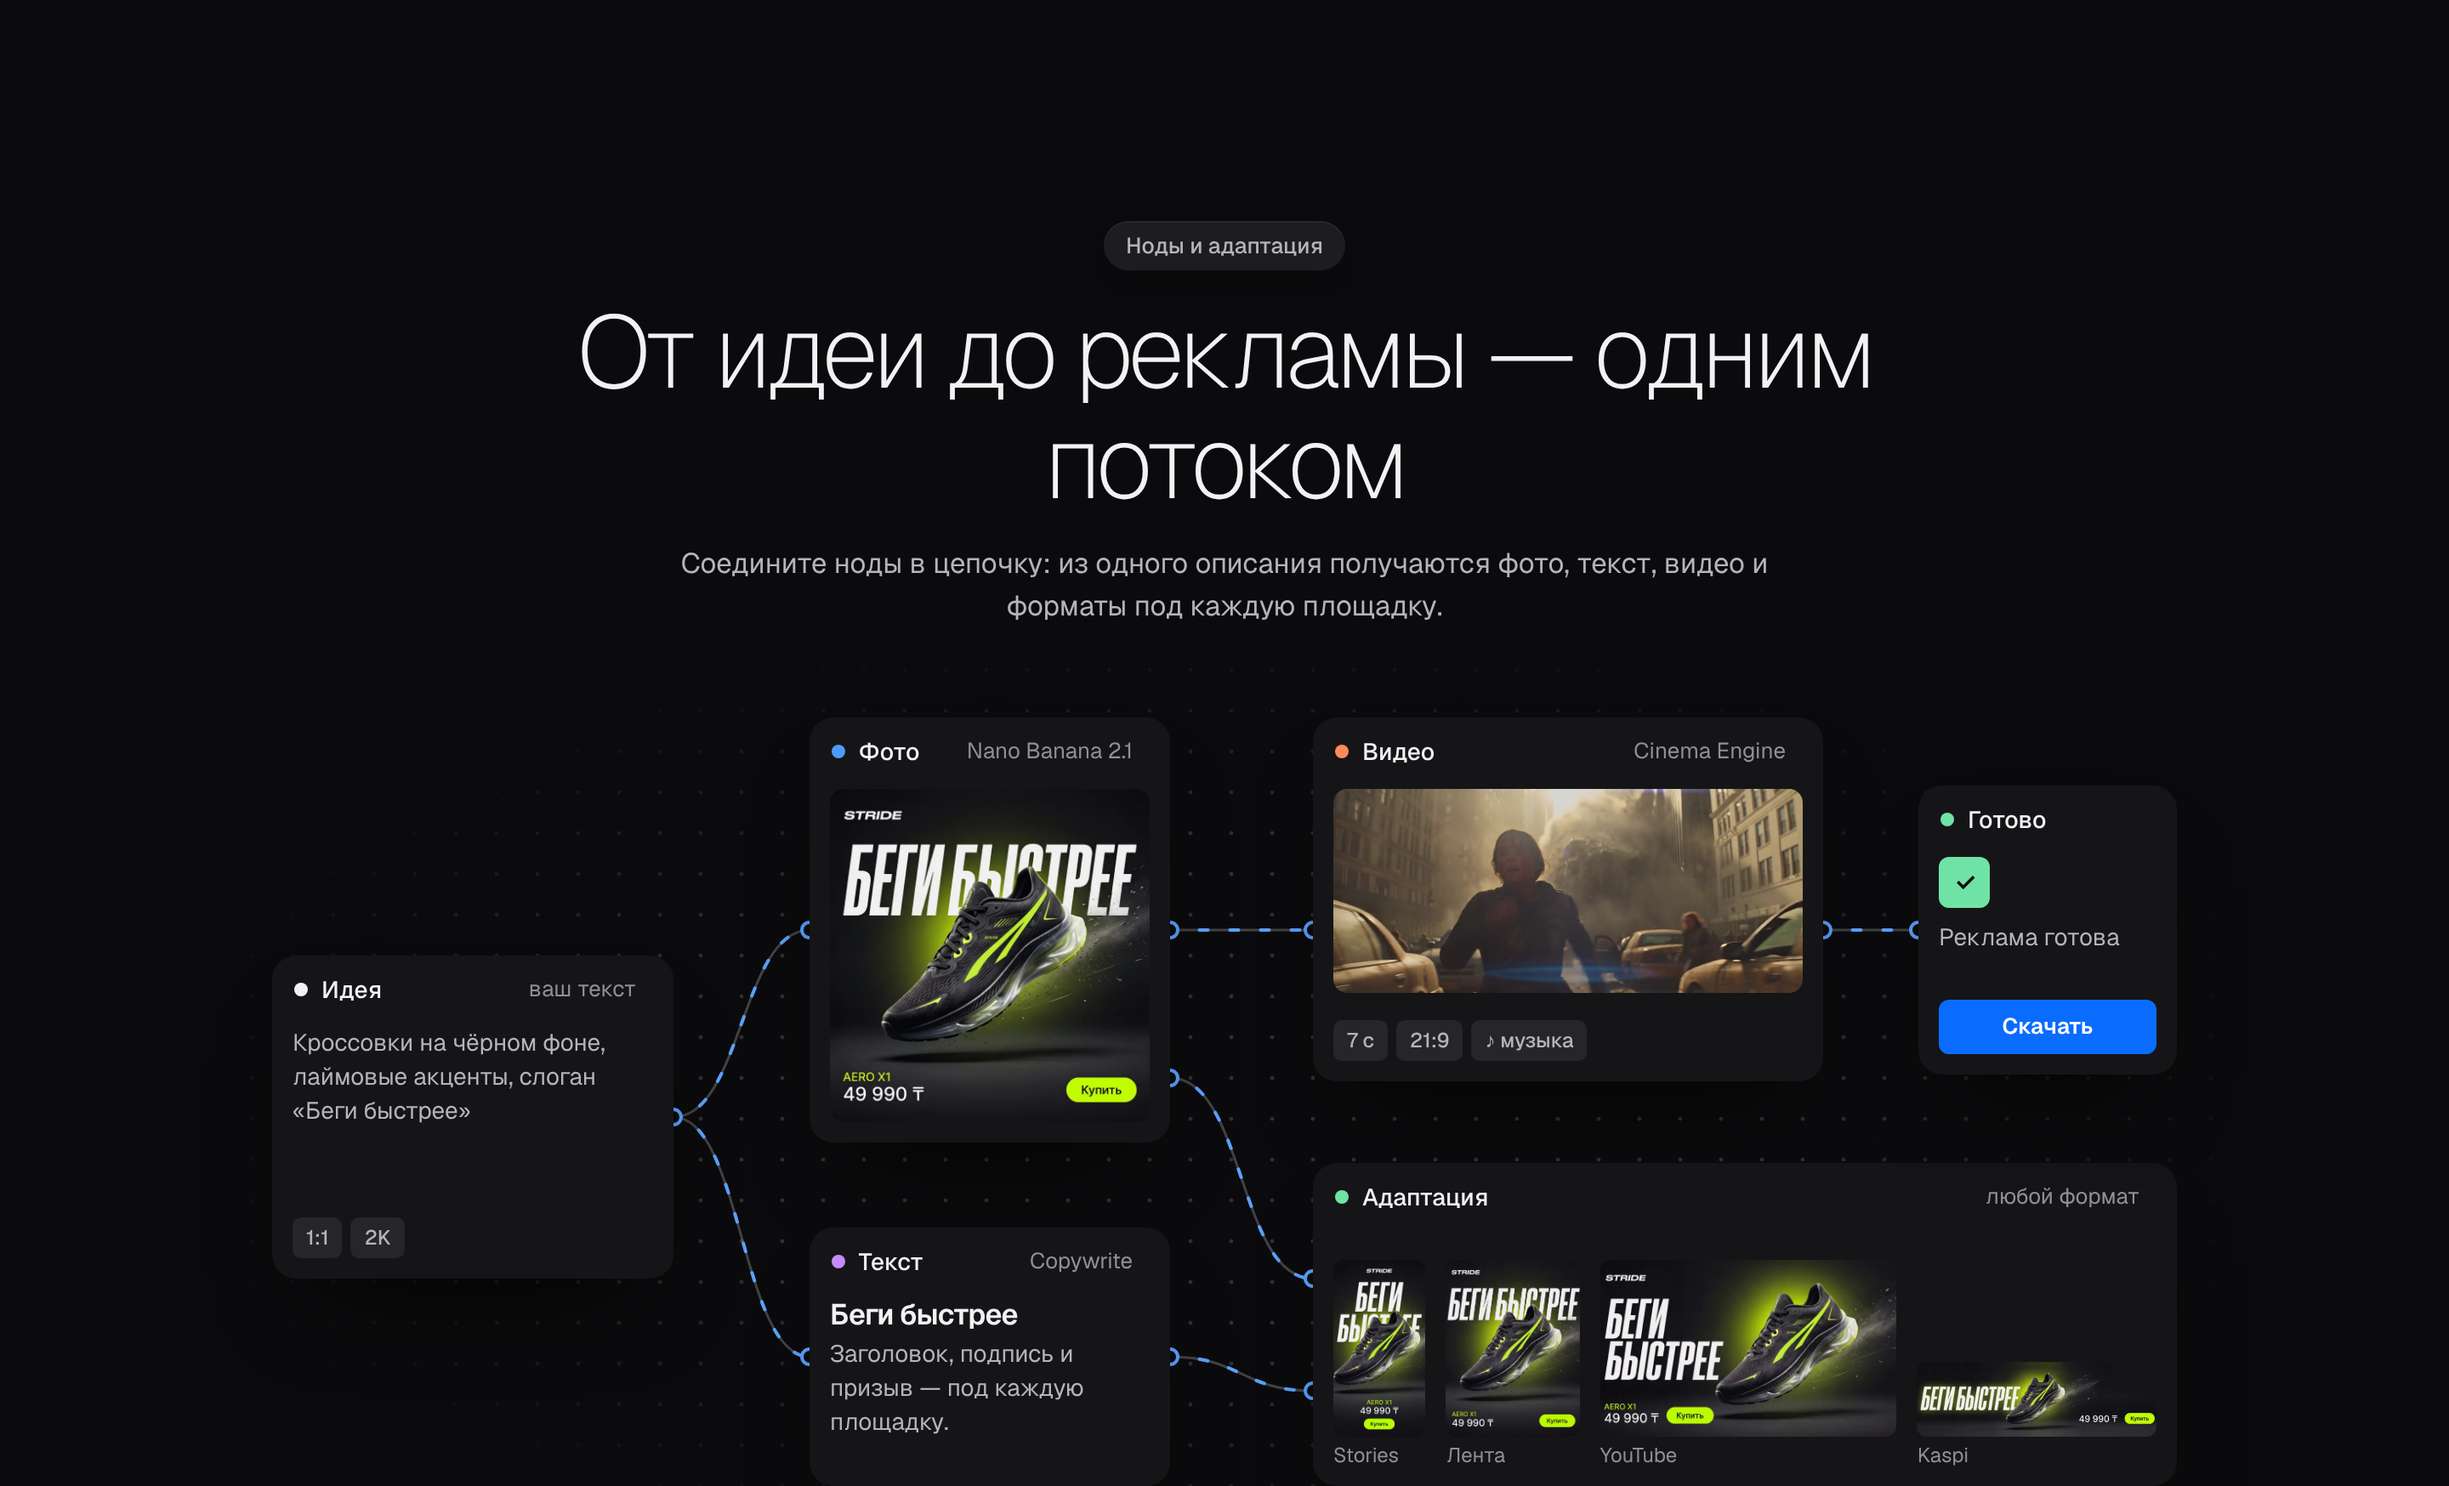
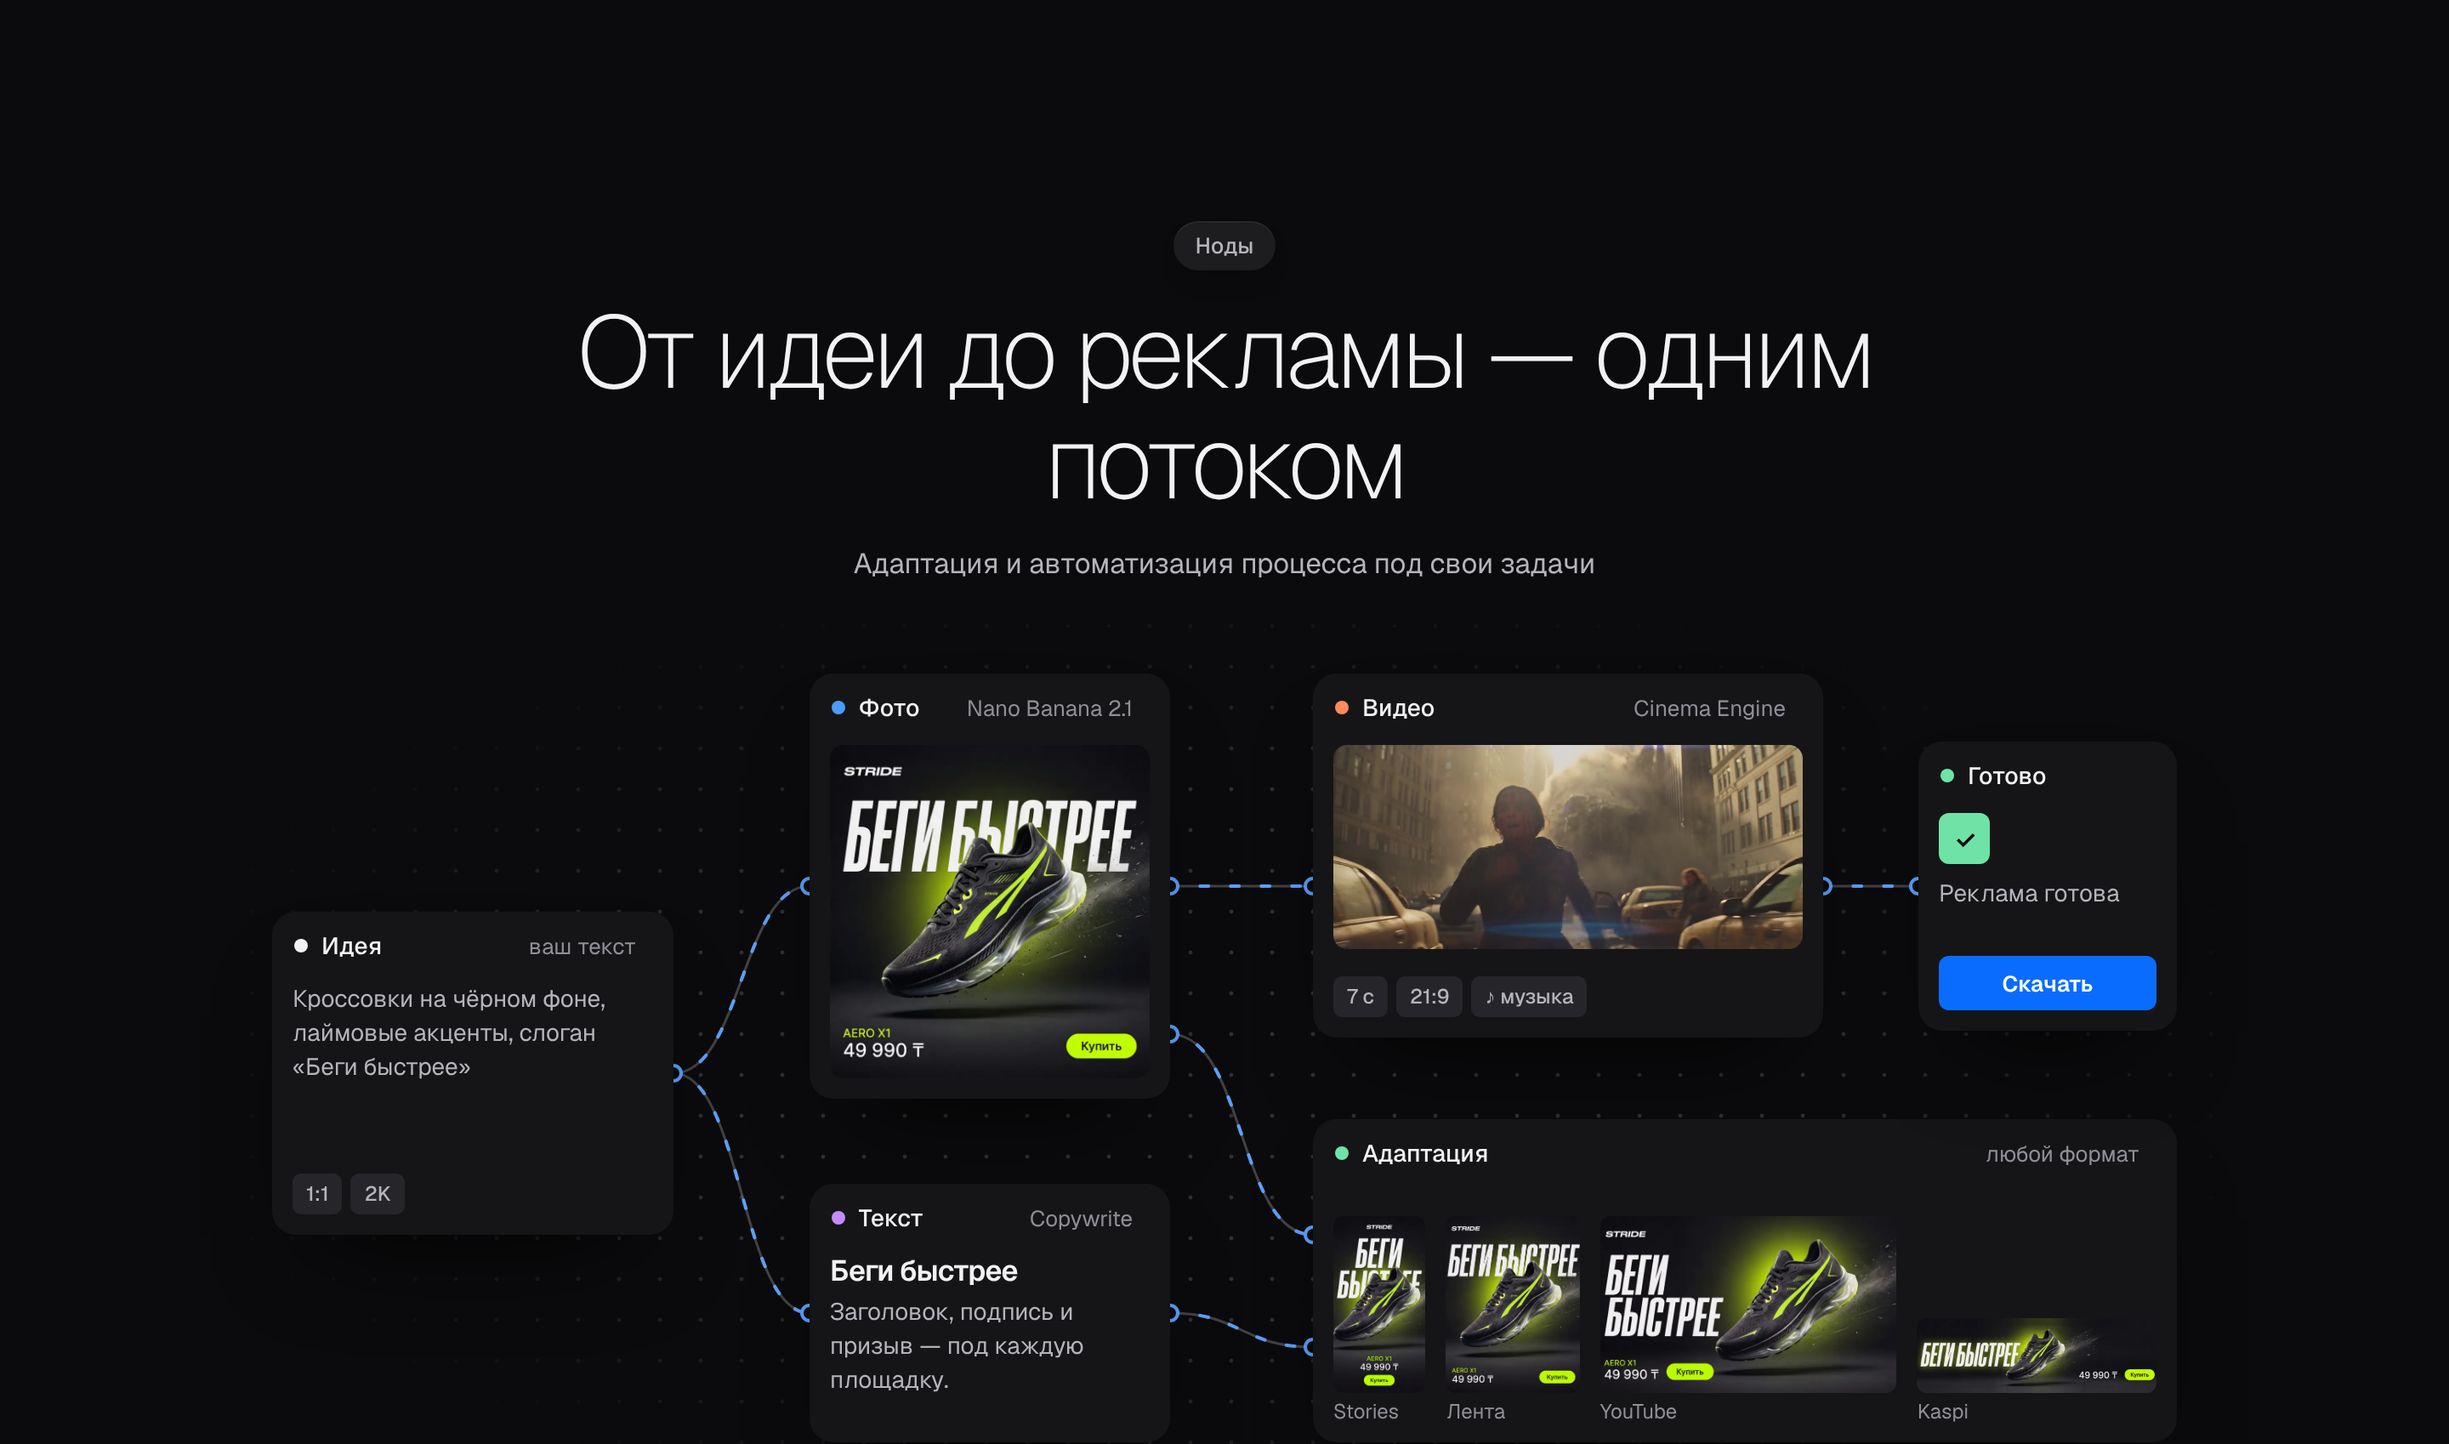
Hero draft: the node-flow section's new line (v19.69)
Claude-Session: https://claude.ai/code/session_018a2KjtpEKLUTJU5P3jAt1D

diff --git a/landing/hero_draft/patch_flow_section.py b/landing/hero_draft/patch_flow_section.py
@@ -5,14 +5,14 @@ python3 -I patch_flow_section.py <ru.html> <index.html>"""
 import sys
 
 T = {
-    'ru': dict(k='Ноды и адаптация', h='От идеи до рекламы — одним потоком',
-               p='Соедините ноды в цепочку: из одного описания получаются фото, текст, видео и форматы под каждую площадку.',
+    'ru': dict(k='Ноды', h='От идеи до рекламы — одним потоком',
+               p='Адаптация и автоматизация процесса под свои задачи',
                idea=('Идея', 'ваш текст', 'Кроссовки на чёрном фоне, лаймовые акценты, слоган «Беги быстрее»'),
                photo='Фото', text=('Текст', 'Беги быстрее', 'Заголовок, подпись и призыв — под каждую площадку.'),
                video=('Видео', '7 с', '♪ музыка'), adapt=('Адаптация', 'любой формат', 'Лента'),
                done=('Готово', 'Реклама готова', 'Скачать'), aria='Схема: как из идеи получается реклама'),
-    'en': dict(k='Nodes & adaptation', h='From idea to ad — in one flow',
-               p='Link nodes into a chain: one brief turns into a photo, copy, a video and formats for every platform.',
+    'en': dict(k='Nodes', h='From idea to ad — in one flow',
+               p='Adapt and automate the process for your own tasks',
                idea=('Idea', 'your text', 'Sneakers on a black background, lime accents, the slogan “Run faster”'),
                photo='Photo', text=('Copy', 'Run faster', 'Headline, caption and call to action — for every platform.'),
                video=('Video', '7 s', '♪ music'), adapt=('Adaptation', 'any format', 'Feed'),
